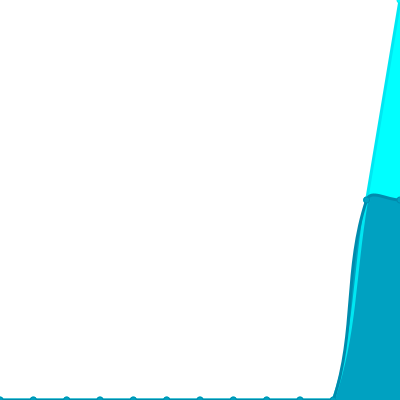
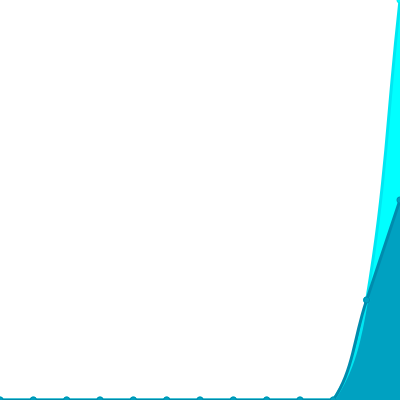
Update views

Changed region(s): [[0.81, 0.06, 1.0, 0.99], [0.99, 0.0, 1.0, 0.06]]

diff --git a/readme/218572475/year.md b/readme/218572475/year.md
@@ -23,10 +23,10 @@
 			<code>2022/3/1</code>
 		</td>
 		<td>
-			<code>1</code>
+			<code>2</code>
 		</td>
 		<td>
-			<code>2</code>
+			<code>4</code>
 		</td>
 	</tr>
 	<tr>
@@ -164,7 +164,7 @@
 </table>
 
 </details>
-<small><i>Last updated on 2022/3/21 12:42 PM UTC</i></small>
+<small><i>Last updated on 2022/3/21 6:33 PM UTC</i></small>
 
 ## ✂Copy and 📋 Paste
 ### SVG Badge

diff --git a/README.md b/README.md
@@ -229,7 +229,7 @@ The project created and maintained by [gayanvoice](https://github.com/gayanvoice
 	</tr>
 </table>
 
-<small><i>Last updated on 2022/3/21 12:43 PM UTC</i></small>
+<small><i>Last updated on 2022/3/21 6:34 PM UTC</i></small>
 
 ## ✂Copy and 📋 Paste
 ### Total Views Badge

diff --git a/readme/132236308/year.md b/readme/132236308/year.md
@@ -164,7 +164,7 @@
 </table>
 
 </details>
-<small><i>Last updated on 2022/3/21 12:41 PM UTC</i></small>
+<small><i>Last updated on 2022/3/21 6:32 PM UTC</i></small>
 
 ## ✂Copy and 📋 Paste
 ### SVG Badge

diff --git a/readme/136356159/year.md b/readme/136356159/year.md
@@ -164,7 +164,7 @@
 </table>
 
 </details>
-<small><i>Last updated on 2022/3/21 12:41 PM UTC</i></small>
+<small><i>Last updated on 2022/3/21 6:32 PM UTC</i></small>
 
 ## ✂Copy and 📋 Paste
 ### SVG Badge

diff --git a/readme/157060568/year.md b/readme/157060568/year.md
@@ -164,7 +164,7 @@
 </table>
 
 </details>
-<small><i>Last updated on 2022/3/21 12:41 PM UTC</i></small>
+<small><i>Last updated on 2022/3/21 6:31 PM UTC</i></small>
 
 ## ✂Copy and 📋 Paste
 ### SVG Badge

diff --git a/readme/163271509/year.md b/readme/163271509/year.md
@@ -164,7 +164,7 @@
 </table>
 
 </details>
-<small><i>Last updated on 2022/3/21 12:41 PM UTC</i></small>
+<small><i>Last updated on 2022/3/21 6:32 PM UTC</i></small>
 
 ## ✂Copy and 📋 Paste
 ### SVG Badge

diff --git a/readme/163410344/year.md b/readme/163410344/year.md
@@ -164,7 +164,7 @@
 </table>
 
 </details>
-<small><i>Last updated on 2022/3/21 12:41 PM UTC</i></small>
+<small><i>Last updated on 2022/3/21 6:32 PM UTC</i></small>
 
 ## ✂Copy and 📋 Paste
 ### SVG Badge

diff --git a/readme/193742235/year.md b/readme/193742235/year.md
@@ -164,7 +164,7 @@
 </table>
 
 </details>
-<small><i>Last updated on 2022/3/21 12:42 PM UTC</i></small>
+<small><i>Last updated on 2022/3/21 6:33 PM UTC</i></small>
 
 ## ✂Copy and 📋 Paste
 ### SVG Badge

diff --git a/readme/228704425/year.md b/readme/228704425/year.md
@@ -164,7 +164,7 @@
 </table>
 
 </details>
-<small><i>Last updated on 2022/3/21 12:42 PM UTC</i></small>
+<small><i>Last updated on 2022/3/21 6:32 PM UTC</i></small>
 
 ## ✂Copy and 📋 Paste
 ### SVG Badge

diff --git a/readme/233854987/year.md b/readme/233854987/year.md
@@ -164,7 +164,7 @@
 </table>
 
 </details>
-<small><i>Last updated on 2022/3/21 12:41 PM UTC</i></small>
+<small><i>Last updated on 2022/3/21 6:32 PM UTC</i></small>
 
 ## ✂Copy and 📋 Paste
 ### SVG Badge

diff --git a/readme/286644586/year.md b/readme/286644586/year.md
@@ -164,7 +164,7 @@
 </table>
 
 </details>
-<small><i>Last updated on 2022/3/21 12:42 PM UTC</i></small>
+<small><i>Last updated on 2022/3/21 6:33 PM UTC</i></small>
 
 ## ✂Copy and 📋 Paste
 ### SVG Badge

diff --git a/readme/389632196/year.md b/readme/389632196/year.md
@@ -164,7 +164,7 @@
 </table>
 
 </details>
-<small><i>Last updated on 2022/3/21 12:42 PM UTC</i></small>
+<small><i>Last updated on 2022/3/21 6:33 PM UTC</i></small>
 
 ## ✂Copy and 📋 Paste
 ### SVG Badge
